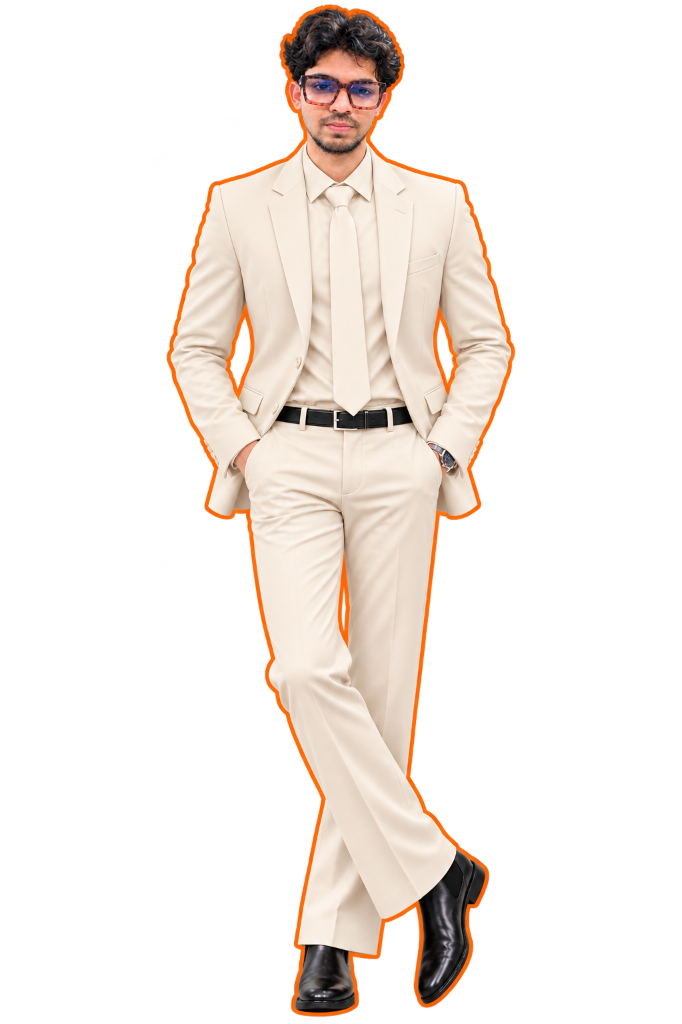
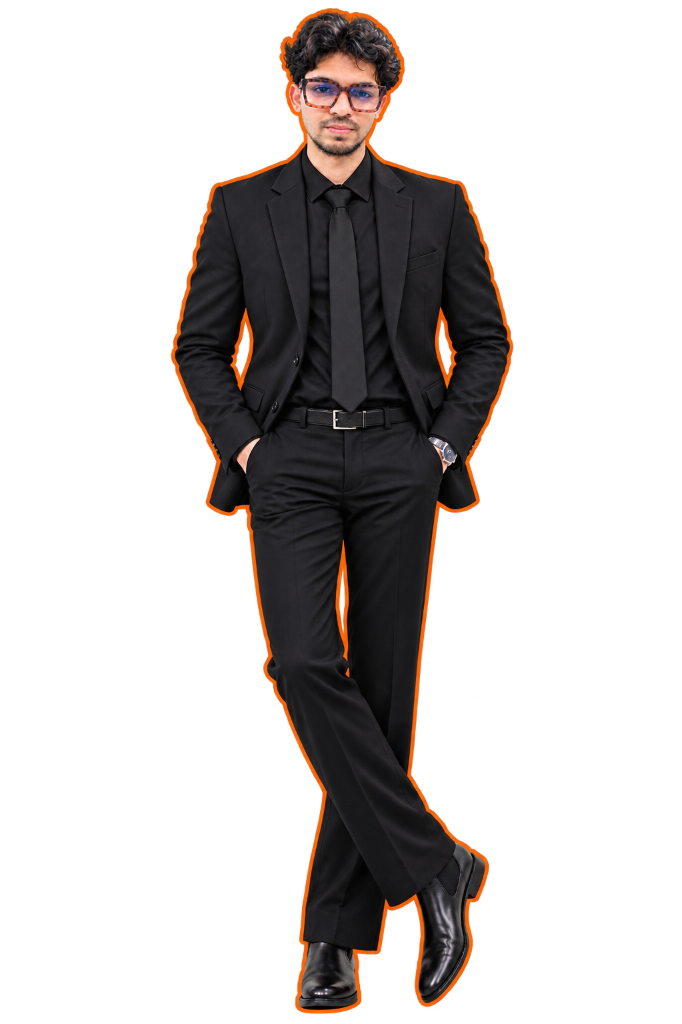
feat(seo): update layout Open Graph metadata to black suit photo

Changed region(s): [[0.2463, 0.0, 0.7698, 1.0]]

diff --git a/src/app/layout.tsx b/src/app/layout.tsx
@@ -16,18 +16,10 @@ export const metadata: Metadata = {
     siteName: "Labib Fohayer",
     images: [
       {
-        url: "https://labibfohayer.pages.dev/images/og-preview.jpg?v=2",
-        secureUrl: "https://labibfohayer.pages.dev/images/og-preview.jpg?v=2",
-        width: 1200,
-        height: 630,
-        type: "image/jpeg",
-        alt: "Labib Fohayer | Web Designer & AI Automation Engineer",
-      },
-      {
-        url: "https://labibfohayer.pages.dev/images/og-preview.png?v=2",
-        secureUrl: "https://labibfohayer.pages.dev/images/og-preview.png?v=2",
-        width: 1200,
-        height: 630,
+        url: "https://labibfohayer.pages.dev/images/labib-fohayer-full.png?v=2",
+        secureUrl: "https://labibfohayer.pages.dev/images/labib-fohayer-full.png?v=2",
+        width: 682,
+        height: 1024,
         type: "image/png",
         alt: "Labib Fohayer | Web Designer & AI Automation Engineer",
       },
@@ -39,7 +31,7 @@ export const metadata: Metadata = {
     title: "Labib Fohayer | Web Designer & AI Automation Engineer",
     description:
       "Portfolio of Labib Fohayer. Blending creative web design with intelligent AI automation to build scalable business systems.",
-    images: ["https://labibfohayer.pages.dev/images/og-preview.jpg?v=2"],
+    images: ["https://labibfohayer.pages.dev/images/labib-fohayer-full.png?v=2"],
   },
   icons: {
     icon: [
@@ -74,12 +66,13 @@ export default function RootLayout({
         <link rel="icon" type="image/png" sizes="192x192" href="/favicon-192x192.png" />
         <link rel="icon" type="image/svg+xml" href="/favicon.svg" />
         <link rel="apple-touch-icon" sizes="180x180" href="/apple-touch-icon.png" />
-        <link rel="image_src" href="https://labibfohayer.pages.dev/images/og-preview.jpg?v=2" />
-        <meta property="og:image" content="https://labibfohayer.pages.dev/images/og-preview.jpg?v=2" />
-        <meta property="og:image:secure_url" content="https://labibfohayer.pages.dev/images/og-preview.jpg?v=2" />
-        <meta property="og:image:type" content="image/jpeg" />
-        <meta property="og:image:width" content="1200" />
-        <meta property="og:image:height" content="630" />
+        <link rel="image_src" href="https://labibfohayer.pages.dev/images/labib-fohayer-full.png?v=2" />
+        <meta property="og:image" content="https://labibfohayer.pages.dev/images/labib-fohayer-full.png?v=2" />
+        <meta property="og:image:secure_url" content="https://labibfohayer.pages.dev/images/labib-fohayer-full.png?v=2" />
+        <meta property="og:image:type" content="image/png" />
+        <meta property="og:image:width" content="682" />
+        <meta property="og:image:height" content="1024" />
+        <meta name="twitter:image" content="https://labibfohayer.pages.dev/images/labib-fohayer-full.png?v=2" />
         <script
           type="application/ld+json"
           dangerouslySetInnerHTML={{
@@ -91,7 +84,7 @@ export default function RootLayout({
               url: "https://labibfohayer.pages.dev",
               description:
                 "Portfolio of Labib Fohayer. Blending creative web design with intelligent AI automation to build scalable business systems.",
-              image: "https://labibfohayer.pages.dev/images/og-preview.jpg?v=2",
+              image: "https://labibfohayer.pages.dev/images/labib-fohayer-full.png?v=2",
             }),
           }}
         />

diff --git a/public/README.md b/public/README.md
@@ -1,0 +1,106 @@
+# Labib Fohayer - Developer Portfolio and Digital Showcase
+
+A modern, high-performance personal portfolio website showcasing full-stack web applications, workflow automation engines, and interactive web experiences engineered by Labib Fohayer. Deployed via GitHub Pages at [labibfohayer.github.io](https://labibfohayer.github.io).
+
+---
+
+## Project Overview
+
+This repository hosts the static export and production assets for Labib Fohayer's official developer portfolio. The platform highlights real-world commercial applications, AI-driven automation systems, and bespoke web interfaces. It combines precision editorial typography with hardware-accelerated motion choreography to deliver a responsive, accessible, and fast-loading web experience across all modern desktop and mobile browsers.
+
+---
+
+## Key Features
+
+- Dynamic Project Showcase: Curated case studies featuring interactive hover previews, technical specifications, and production links for commercial applications such as NAWABIYAAT, AMMS, BD Mess, Coffee Peyala, and Webpulse Automation.
+- Hardware-Accelerated Animation Pipeline: Fluid micro-interactions, split-text typography animations, and scroll-linked timeline sequences powered by GSAP and ScrollTrigger.
+- Inertial Smooth Scrolling: Integrated Lenis smooth scroll engine providing unified scroll kinematics across touchpads, mice, and mobile touch surfaces.
+- Modular Routing Architecture: Fully static pre-rendered routes including Home (`/`), About Me (`/about-me`), Projects (`/projects`), Work History (`/work`), Personal Interests (`/off-the-clock`), and Resume (`/resume`).
+- Integrated Resume Viewer: Fast client-side resume viewing and direct PDF download pipeline (`Labib_Fohayer_Resume.pdf`).
+- Optimized Static Delivery: Zero-runtime server overhead utilizing optimized static bundles, WebP/SVG vector assets, and `.nojekyll` bypass configuration for GitHub Pages CDN distribution.
+
+---
+
+## Tech Stack
+
+- Core Framework: Next.js (Static Export / SSG), React
+- Motion and Animation: GSAP 3, ScrollTrigger, SplitText, DrawSVGPlugin, MotionPathPlugin, Lenis Smooth Scroll
+- Styling: Tailwind CSS, Custom Utility CSS, CSS Keyframe Animations
+- Media and Assets: Scalable Vector Graphics (SVG), WebP image compression, MP4 video preview clips
+- Infrastructure: GitHub Pages, GitHub Actions CI/CD pipeline
+
+---
+
+## Directory Structure
+
+```
+labibfohayer.github.io/
+├── .nojekyll                  # GitHub Pages Jekyll bypass flag
+├── 404.html                   # Static fallback error page
+├── index.html                 # Main landing page
+├── about-me.html              # Professional background and biography
+├── projects.html              # Comprehensive project index
+├── work.html                  # Work history and professional experience
+├── off-the-clock.html         # Personal interests and creative projects
+├── resume.html                # Online resume viewer page
+├── Labib_Fohayer_Resume.pdf   # Downloadable technical CV
+├── _next/                     # Pre-rendered Next.js static chunks and assets
+├── cdn-assets/                # Project media, video loops, and case study posters
+├── images/                    # Profile portraits, client references, and icons
+├── js/                        # Vendor libraries (GSAP, Lenis, Webflow bundles)
+├── media/                     # Embedded video reels and visual demonstrations
+├── projects/                  # Project static thumbnails and hover states
+└── svgs/                      # Vector UI icons and decorative background patterns
+```
+
+---
+
+## Installation and Setup Guide
+
+To inspect or serve the static build locally on your development machine:
+
+### 1. Clone the Repository
+```bash
+git clone https://github.com/labibfohayer/labibfohayer.github.io.git
+cd labibfohayer.github.io
+```
+
+### 2. Run a Local Static HTTP Server
+Using Python:
+```bash
+python3 -m http.server 8000
+```
+Or using Node.js `serve` / `npx`:
+```bash
+npx serve . -p 8000
+```
+
+### 3. Open in Browser
+Navigate to `http://localhost:8000` to review pages, asset loading, and animation timelines.
+
+---
+
+## Deployment Workflow
+
+The repository is configured for automated hosting on GitHub Pages:
+1. Production builds are generated via static export (`next export` / `output: 'export'`).
+2. Build artifacts are committed directly to the `main` branch.
+3. The `.nojekyll` file ensures that GitHub Pages does not filter directories starting with underscores (such as `_next`).
+4. Updates pushed to the `main` branch deploy globally across GitHub Pages CDN edges within minutes.
+
+---
+
+## Author & Contact
+
+Developed and maintained by **Labib Fohayer**.
+
+- Portfolio: [https://labibfohayer.github.io](https://labibfohayer.github.io)
+- GitHub: [https://github.com/labibfohayer](https://github.com/labibfohayer)
+- LinkedIn: [https://linkedin.com/in/labib-fohayer](https://linkedin.com/in/labib-fohayer)
+- Email: Contact available via portfolio contact portal
+
+---
+
+## License
+
+Copyright (c) 2026 Labib Fohayer. All source code and intellectual assets are reserved. Open for technical inspection and code reference.
